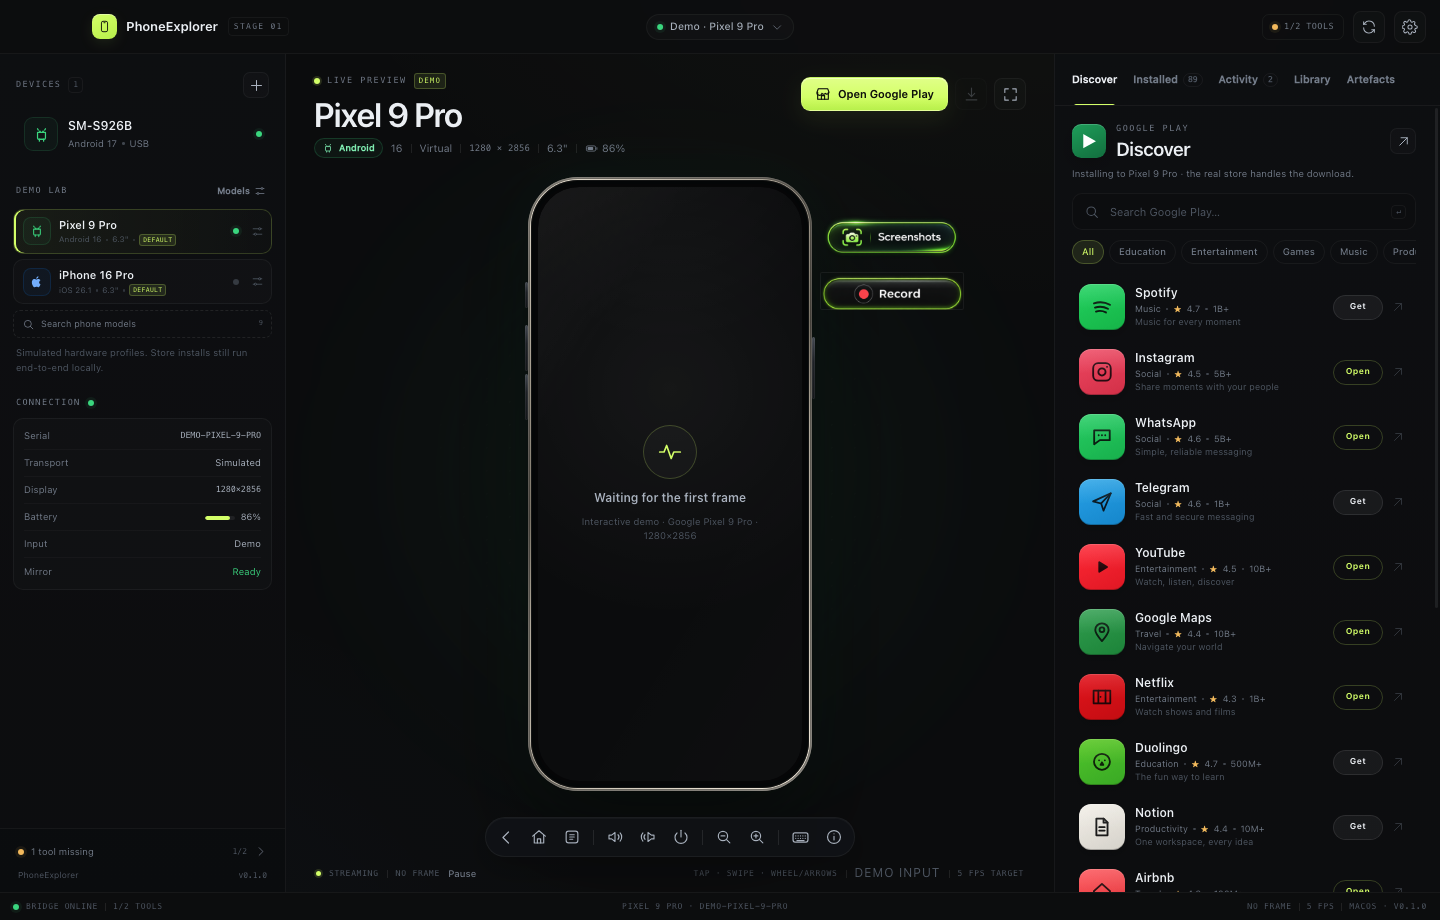
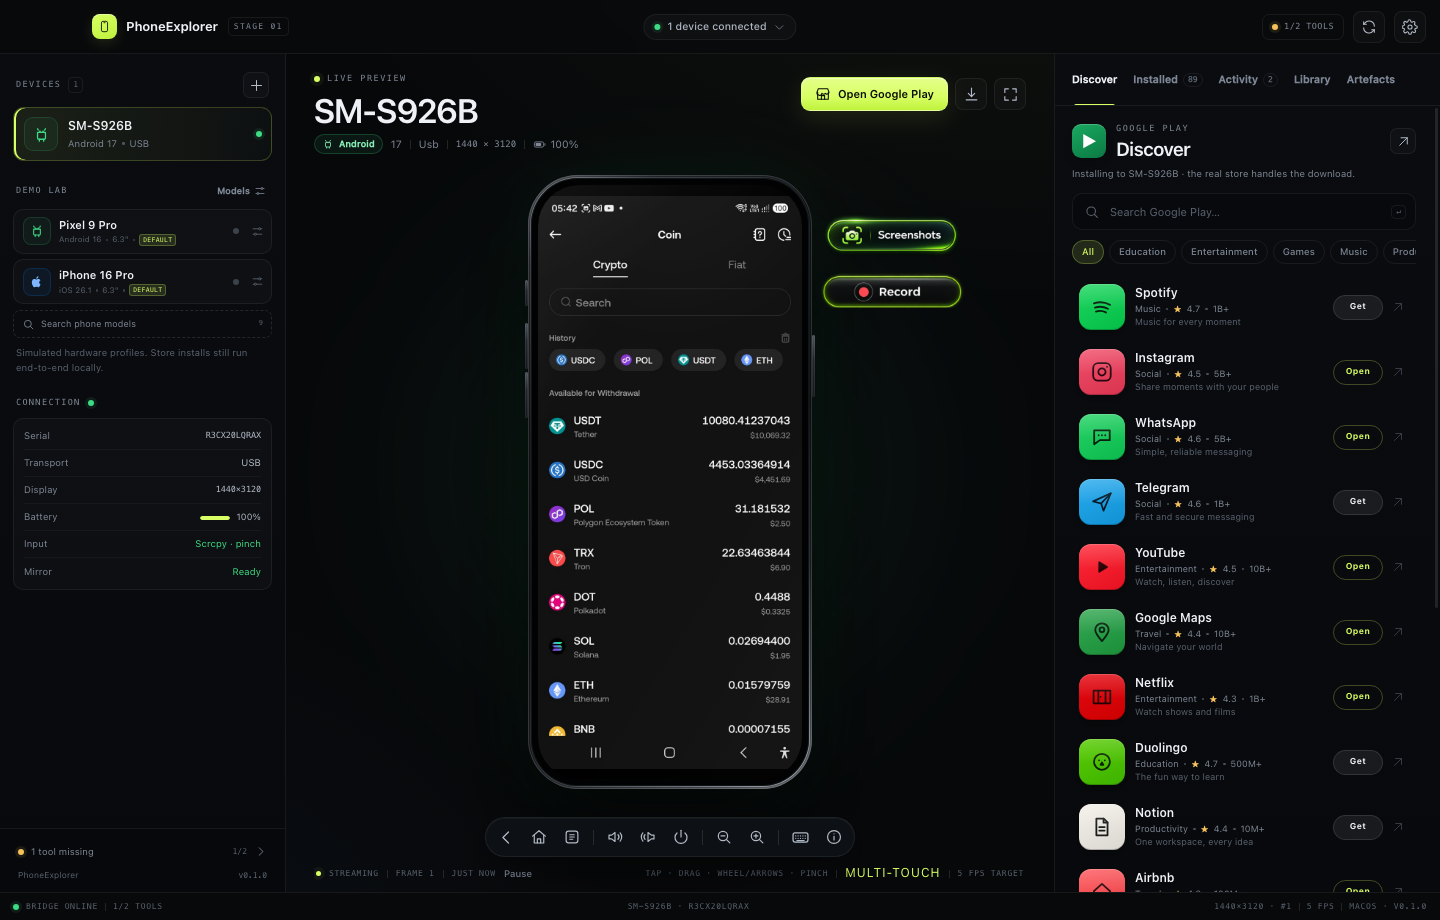
Align record states and move notifications to the left gap
- remove the inherited square inset frame from the idle Record image
- keep both record states on the same 144x38 pill geometry
- move toasts and the recording HUD into the empty left gap
- drop duplicate start toast
- auto mode relies on the recording screenshot loop
- cap artifacts at 24 screens and resize page images

diff --git a/src/renderer/src/App.tsx b/src/renderer/src/App.tsx
@@ -70,6 +70,28 @@ function StatusBar({
   );
 }
 
+async function shrinkScreenshot(dataUrl: string, width = 520): Promise<string> {
+  return new Promise((resolve) => {
+    const image = new Image();
+    image.onload = () => {
+      const scale = Math.min(1, width / Math.max(1, image.width));
+      const canvas = document.createElement('canvas');
+      canvas.width = Math.max(1, Math.round(image.width * scale));
+      canvas.height = Math.max(1, Math.round(image.height * scale));
+      const context = canvas.getContext('2d');
+      if (!context) {
+        resolve(dataUrl);
+        return;
+      }
+      context.imageSmoothingQuality = 'high';
+      context.drawImage(image, 0, 0, canvas.width, canvas.height);
+      resolve(canvas.toDataURL('image/jpeg', 0.82));
+    };
+    image.onerror = () => resolve(dataUrl);
+    image.src = dataUrl;
+  });
+}
+
 export default function App(): React.ReactElement {
   const { state, frame, toasts, dismissToast, actions, frameAge } = usePhone();
   const [tab, setTab] = useState<InspectorTab>('discover');
@@ -236,14 +258,6 @@ export default function App(): React.ReactElement {
         await actions.tap(step.x, step.y);
         await new Promise((resolve) => window.setTimeout(resolve, 1200));
         if (autoCancel.current) return;
-        if (step.label !== 'Lobby') {
-          await actions.capturePhoneScreen({
-            label: `Auto · ${step.label}`,
-            caption: `Auto walkthrough: GGPoker ${step.label}. The tap and screenshot were taken inside the phone.`,
-            group: 'recording',
-            quiet: true,
-          });
-        }
       }
       if (!autoCancel.current) await stopPhoneRecording();
     } catch (error) {
@@ -262,8 +276,10 @@ export default function App(): React.ReactElement {
   ): Promise<void> => {
     const sections: ArtefactSection[] = [];
     const seen: Array<Set<string>> = [];
-    for (const shot of shots.slice(0, 80)) {
-      if (sections.length >= 40) break;
+    const direct = shots.filter((shot) => !shot.deviceName.startsWith('Video frame'));
+    const candidates = direct.length >= 3 ? direct : shots;
+    for (const shot of candidates.slice(0, 80)) {
+      if (sections.length >= 24) break;
       const boxes = await actions.ocrScreenshot(shot.id);
       const tokens = new Set(
         boxes
@@ -276,13 +292,14 @@ export default function App(): React.ReactElement {
           const union = new Set([...previous, ...tokens]);
           let intersection = 0;
           for (const token of tokens) if (previous.has(token)) intersection += 1;
-          return union.size > 0 && intersection / union.size >= 0.82;
+          return union.size > 0 && intersection / union.size >= 0.88;
         });
         if (duplicate) continue;
         seen.push(tokens);
       }
-      const image = await actions.loadScreenshot(shot.id);
-      if (!image) continue;
+      const rawImage = await actions.loadScreenshot(shot.id);
+      if (!rawImage) continue;
+      const image = await shrinkScreenshot(rawImage);
       const title =
         boxes
           .map((box) => box.text.trim())

diff --git a/src/renderer/src/styles/app.css b/src/renderer/src/styles/app.css
@@ -2837,14 +2837,32 @@
 
 .toasts {
   position: fixed;
-  right: 16px;
-  bottom: 38px;
+  left: 302px;
+  right: auto;
+  bottom: 42px;
   z-index: 90;
-  width: 336px;
+  width: 220px;
   display: flex;
   flex-direction: column;
   gap: 7px;
   pointer-events: none;
+}
+
+.app.is-focus .toasts {
+  left: 18px;
+  width: 260px;
+}
+
+.app.is-focus .walkthrough-hud {
+  left: 18px;
+}
+
+@media (max-width: 720px) {
+  .toasts,
+  .walkthrough-hud {
+    left: 12px;
+    width: min(260px, calc(100vw - 24px));
+  }
 }
 
 .toast {
@@ -4427,13 +4445,15 @@ button.phone-side:focus-visible {
 /* Walkthrough progress */
 .walkthrough-hud {
   position: fixed;
-  right: 24px;
-  bottom: 42px;
+  left: 302px;
+  right: auto;
+  bottom: 116px;
   z-index: 110;
-  display: flex;
+  display: grid;
+  grid-template-columns: 9px minmax(0, 1fr);
   align-items: center;
-  gap: 10px;
-  width: min(360px, calc(100vw - 48px));
+  gap: 7px 9px;
+  width: 220px;
   padding: 10px 11px;
   border: 1px solid rgba(216, 255, 99, 0.28);
   border-radius: 13px;
@@ -4454,7 +4474,7 @@ button.phone-side:focus-visible {
 
 .walkthrough-copy {
   display: flex;
-  flex: 1;
+  grid-column: 2;
   min-width: 0;
   flex-direction: column;
   gap: 2px;
@@ -4472,7 +4492,8 @@ button.phone-side:focus-visible {
 }
 
 .walkthrough-stop {
-  flex: 0 0 auto;
+  grid-column: 1 / -1;
+  width: 100%;
   padding: 7px 12px;
   border: 1px solid rgba(255, 115, 115, 0.28);
   border-radius: 8px;
@@ -4497,6 +4518,7 @@ button.phone-side:focus-visible {
 }
 
 .recording-dot {
+  grid-row: 1;
   flex: 0 0 auto;
   width: 9px;
   height: 9px;
@@ -4529,7 +4551,9 @@ button.phone-side:focus-visible {
   justify-content: center;
   padding: 0;
   border: 0;
+  border-radius: 0;
   background: transparent;
+  box-shadow: none;
   transition: transform 0.14s var(--ease), filter 0.14s var(--ease);
 }
 

diff --git a/src/main/services/manager.ts b/src/main/services/manager.ts
@@ -1383,7 +1383,6 @@ export class DeviceManager {
       }
     });
     this.log('info', 'Phone recording started', local);
-    this.toast('info', 'Recording the phone', 'Move through the app; screenshots are captured as you go.');
     return { startedAt, videoPath: local };
   }
 
